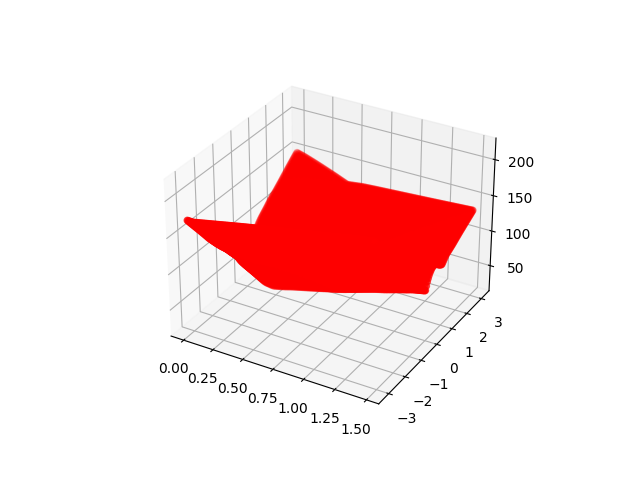
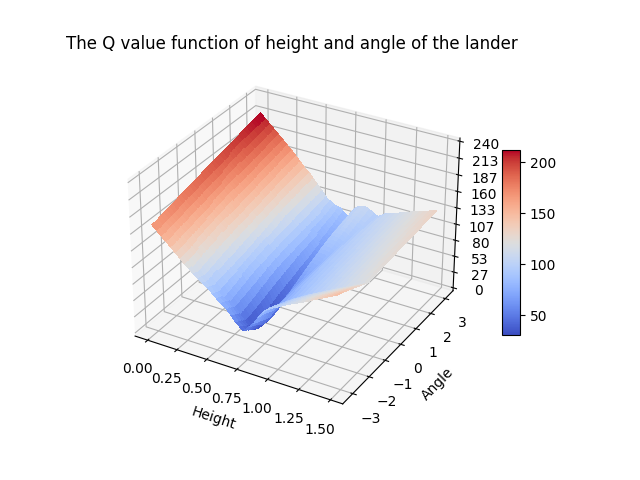
Add plot function, add plot image

diff --git a/lab2/problem1/question_f.py b/lab2/problem1/question_f.py
@@ -3,11 +3,40 @@ from numpy import arange
 import gym
 import torch
 from math import pi
-from tqdm import trange
 from lab2.problem1.DQN_agent import QAgent
 
 import matplotlib.pyplot as plt
 from mpl_toolkits.mplot3d import Axes3D
+from matplotlib import cm
+from matplotlib.ticker import LinearLocator, FormatStrFormatter
+
+
+def plot(X, Y, Z):
+    fig = plt.figure()
+    ax = fig.gca(projection='3d')
+
+    # Make data.
+    X, Y = np.meshgrid(X, Y)
+    # reshape to columns: 120, rows: dont care
+    Z = np.reshape(Z, (-1, 120))
+
+    # Plot the surface.
+    surf = ax.plot_surface(X, Y, Z, cmap=cm.coolwarm,
+                           linewidth=0, antialiased=False)
+
+    # Customize the z axis.
+    ax.set_zlim(0, 240)
+    ax.zaxis.set_major_locator(LinearLocator(10))
+    ax.zaxis.set_major_formatter(FormatStrFormatter('%.0f'))
+
+    # Add a color bar which maps values to colors.
+    fig.colorbar(surf, shrink=0.5, aspect=10)
+    ax.set_xlabel('Height')
+    ax.set_ylabel('Angle')
+    plt.title('The Q value function of height and angle of the lander')
+
+    plt.savefig("question_f_plot.png")
+    plt.show()
 
 
 def load_pre_trained_model(path):
@@ -54,6 +83,7 @@ def main():
             # add to arrays for plotting later
             max_q_array.append(max_q)
 
+    plot(y_array, omega_array, max_q_array)
 
 
 if __name__ == '__main__':
